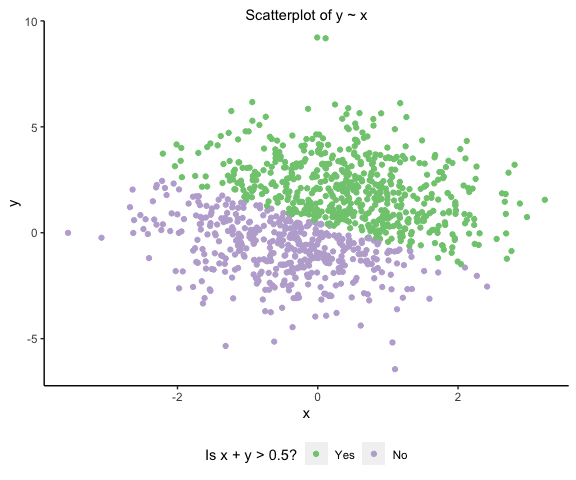
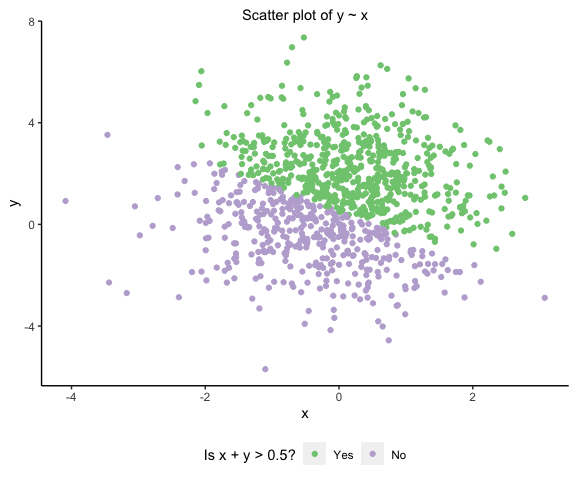
Knitted documents after correcting text errors

diff --git a/src/pubh7462_hw1.md b/src/pubh7462_hw1.md
@@ -19,7 +19,7 @@ This report contains answers to two problems for PUBH 7462 Homework 1.
 The first problem focuses on best practices and style in R by using the
 tidyverse to make some simple data transformations to a random sample
 and plotting the results on a basic scatter plot. The second problem
-invlves some EDA with a dataset containing measurements of penguins
+involves some EDA with a data set containing measurements of penguins
 captured in Antarctica.
 
 # Problem 2. Best Practices and Consistent Style
@@ -49,7 +49,7 @@ str(normsum.df)
 #Now lets plot the data
 ggplot(data = normsum.df, aes(x = x, y = y, color = sum_indicator)) +
   geom_point() +
-  labs(title = "Scatterplot of y ~ x") +
+  labs(title = "Scatter plot of y ~ x") +
   scale_color_brewer(palette = "Accent", "Is x + y > 0.5?" )
 ```
 
@@ -77,7 +77,7 @@ The variables are as follows:
     Gentoo) of penguin being measured
 
 -   *island* refers to the island (Biscoe, Dream, Torgersen) the penguin
-    was captured on, which can be
+    was captured on
 
 -   *bill_length_mm* refers to the bill length in millimeters of the
     penguin being measured
